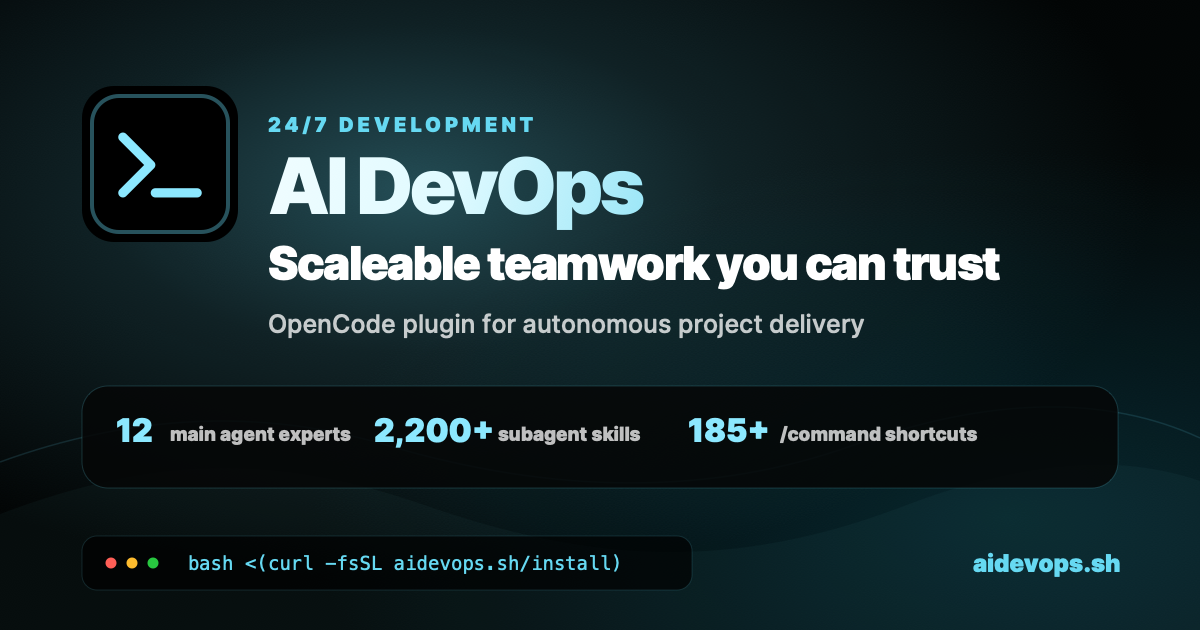
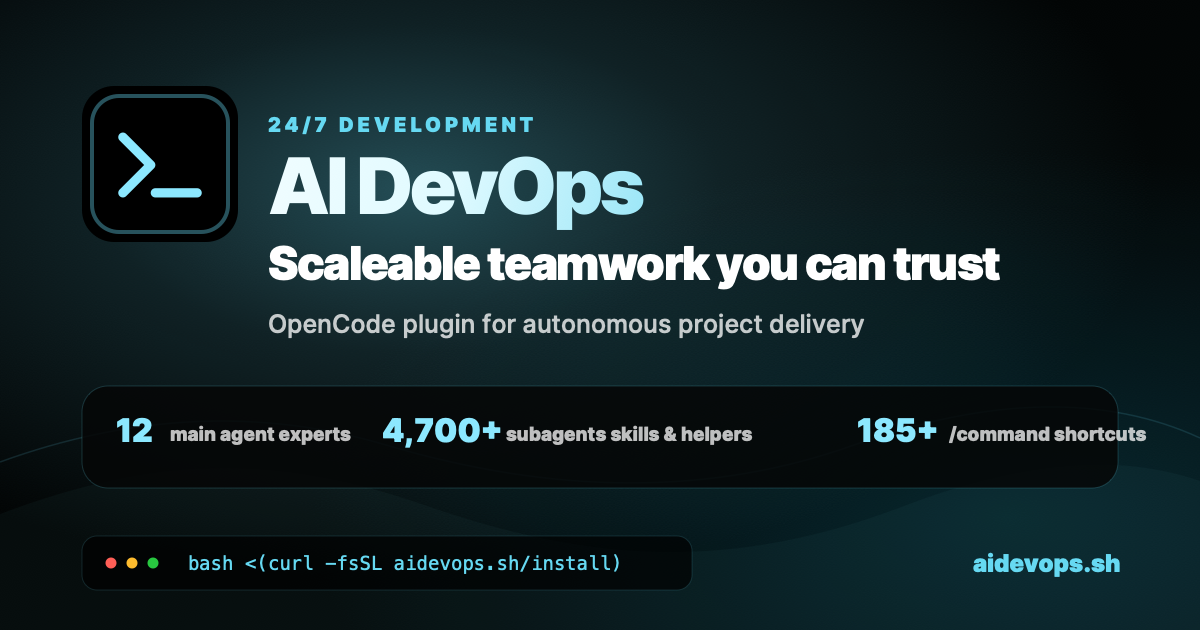
fix: refresh social graph agent metric (#116)
* fix: refresh social graph agent metric

* ci: include social image metrics in stats updates

Changed region(s): [[0.3083, 0.6635, 0.9558, 0.7238]]

diff --git a/scripts/update_site_stats.py b/scripts/update_site_stats.py
@@ -7,6 +7,7 @@ import base64
 import datetime as dt
 import json
 import os
+import re
 import time
 import urllib.error
 import urllib.parse
@@ -16,6 +17,7 @@ from pathlib import Path
 
 TARGET_REPO = os.environ.get("AIDEVOPS_STATS_REPO", "marcusquinn/aidevops")
 OUTPUT_PATH = Path("data/aidevops-stats.json")
+OG_IMAGE_PATH = Path("og-image.svg")
 PREVIEW_EXTENSIONS = {".md", ".txt", ".sh", ".py", ".js", ".json", ".yml", ".yaml", ".toml"}
 MAX_PREVIEWS = 60
 MAX_PREVIEW_CHARS = 6000
@@ -218,18 +220,50 @@ def agents_tree_and_previews() -> dict[str, object]:
     return {"encoding": "base64", "tree": serialized_tree, "previews": previews}
 
 
+def rounded_hundred_label(count: int) -> str:
+    rounded = max(0, count // 100 * 100)
+    if rounded >= 1000:
+        return f"{rounded // 1000},{rounded % 1000:03d}+"
+    return f"{rounded}+"
+
+
+def update_og_image_metric(agents_payload: dict[str, object]) -> None:
+    tree = agents_payload.get("tree", [])
+    if not isinstance(tree, list) or not OG_IMAGE_PATH.exists():
+        return
+    label = rounded_hundred_label(len(tree))
+    content = OG_IMAGE_PATH.read_text(encoding="utf-8")
+    content, metric_replacements = re.subn(
+        r'(<g transform="translate\()\d+( 28\)">\n\s*<text x="0" y="28" fill="#8ce8ff" font-size="32" font-weight="820">)[^<]+(</text>\n\s*<text x="124" y="27" fill="#ffffff" opacity="0\.74" font-size="19" font-weight="650">)(?:subagent skills|subagents skills &amp; helpers)(</text>)',
+        rf'\g<1>300\g<2>{label}\g<3>subagents skills &amp; helpers\g<4>',
+        content,
+        count=1,
+    )
+    content, command_replacements = re.subn(
+        r'(<g transform="translate\()\d+( 28\)">\n\s*<text x="0" y="28" fill="#8ce8ff" font-size="32" font-weight="820">185\+</text>\n\s*<text x="92" y="27" fill="#ffffff" opacity="0\.74" font-size="19" font-weight="650">/command shortcuts</text>)',
+        r'\g<1>775\g<2>',
+        content,
+        count=1,
+    )
+    if metric_replacements != 1 or command_replacements != 1:
+        raise RuntimeError("Unable to update social graph .agents metric")
+    OG_IMAGE_PATH.write_text(content, encoding="utf-8")
+
+
 def main() -> None:
     repo = github_request(f"/repos/{TARGET_REPO}")
     if not isinstance(repo, dict):
         raise TypeError("Unexpected GitHub repository response")
     repo_created_at = str(repo["created_at"])
     generated_at = dt.datetime.now(dt.timezone.utc).replace(microsecond=0).isoformat().replace("+00:00", "Z")
+    agents_payload = agents_tree_and_previews()
+    update_og_image_metric(agents_payload)
     payload = {
         "generatedAt": generated_at,
         "repo": TARGET_REPO,
         "monthly": monthly_issue_counts(repo_created_at),
         "commitsDaily": commit_activity(repo_created_at),
-        "agents": agents_tree_and_previews(),
+        "agents": agents_payload,
     }
     OUTPUT_PATH.parent.mkdir(parents=True, exist_ok=True)
     OUTPUT_PATH.write_text(json.dumps(payload, indent=2, sort_keys=True) + "\n", encoding="utf-8")

diff --git a/AGENTS.md b/AGENTS.md
@@ -29,4 +29,8 @@
 | `TODO.md` | Task tracking |
 | `CHANGELOG.md` | Version history |
 
+## Site Metrics
+
+- Keep the social graph metric in `og-image.svg` rounded down to the current `.agents file browser` count at the next hundred, e.g. `4,700+ subagents skills & helpers`; `scripts/update_site_stats.py` updates this automatically when the `.agents` tree data is refreshed.
+
 <!-- AI-CONTEXT-END -->

diff --git a/DESIGN.md b/DESIGN.md
@@ -78,7 +78,7 @@ Use the CSS custom properties in `styles.css` as the source of truth.
 - Approved supporting line: `OpenCode plugin for autonomous project delivery`.
 - Approved stats labels:
   - `12 main agent experts`
-  - `2,200+ subagent skills`
+  - `4,700+ subagents skills & helpers`
   - `185+ /command shortcuts`
 - Install command pill:
   - Command: `bash <(curl -fsSL aidevops.sh/install)`.
